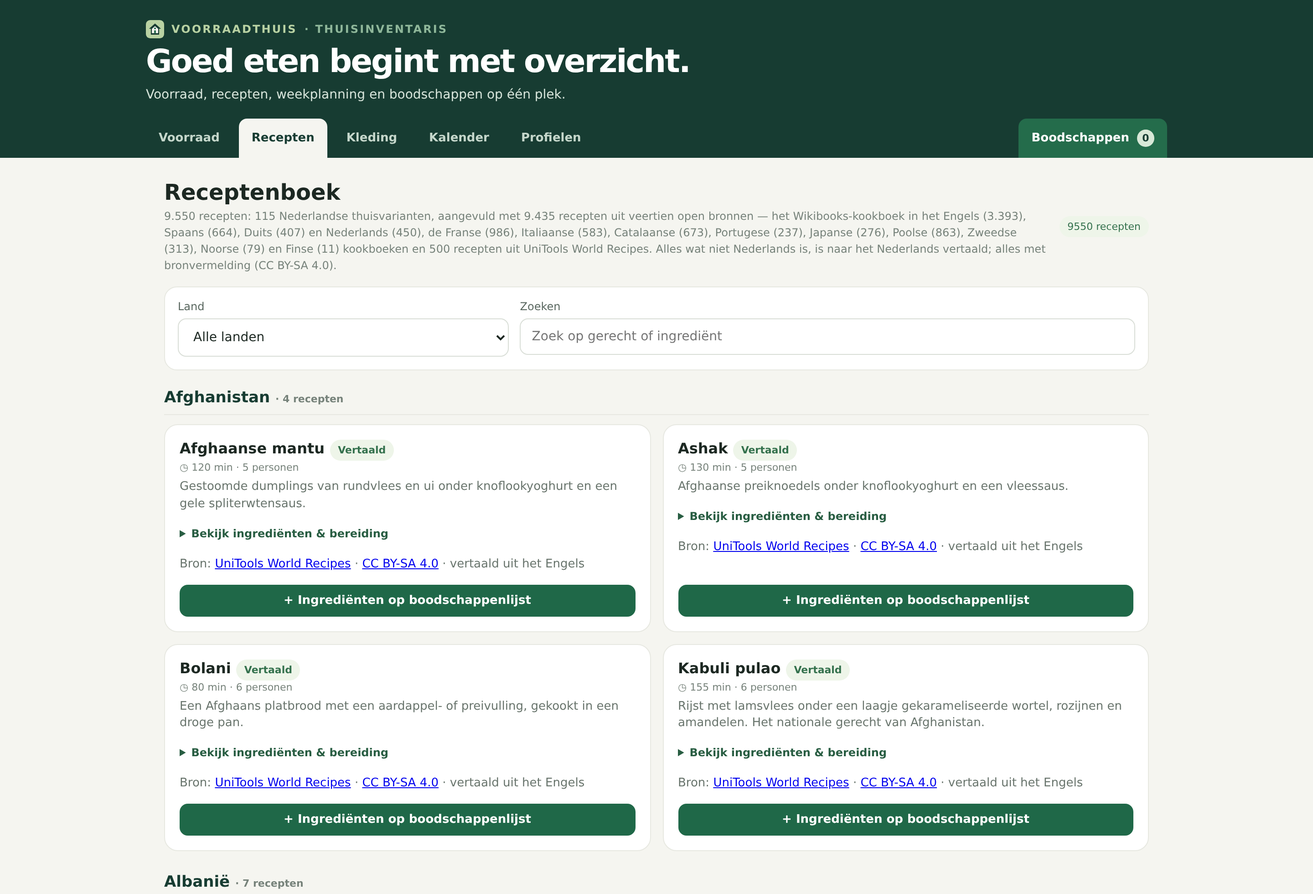
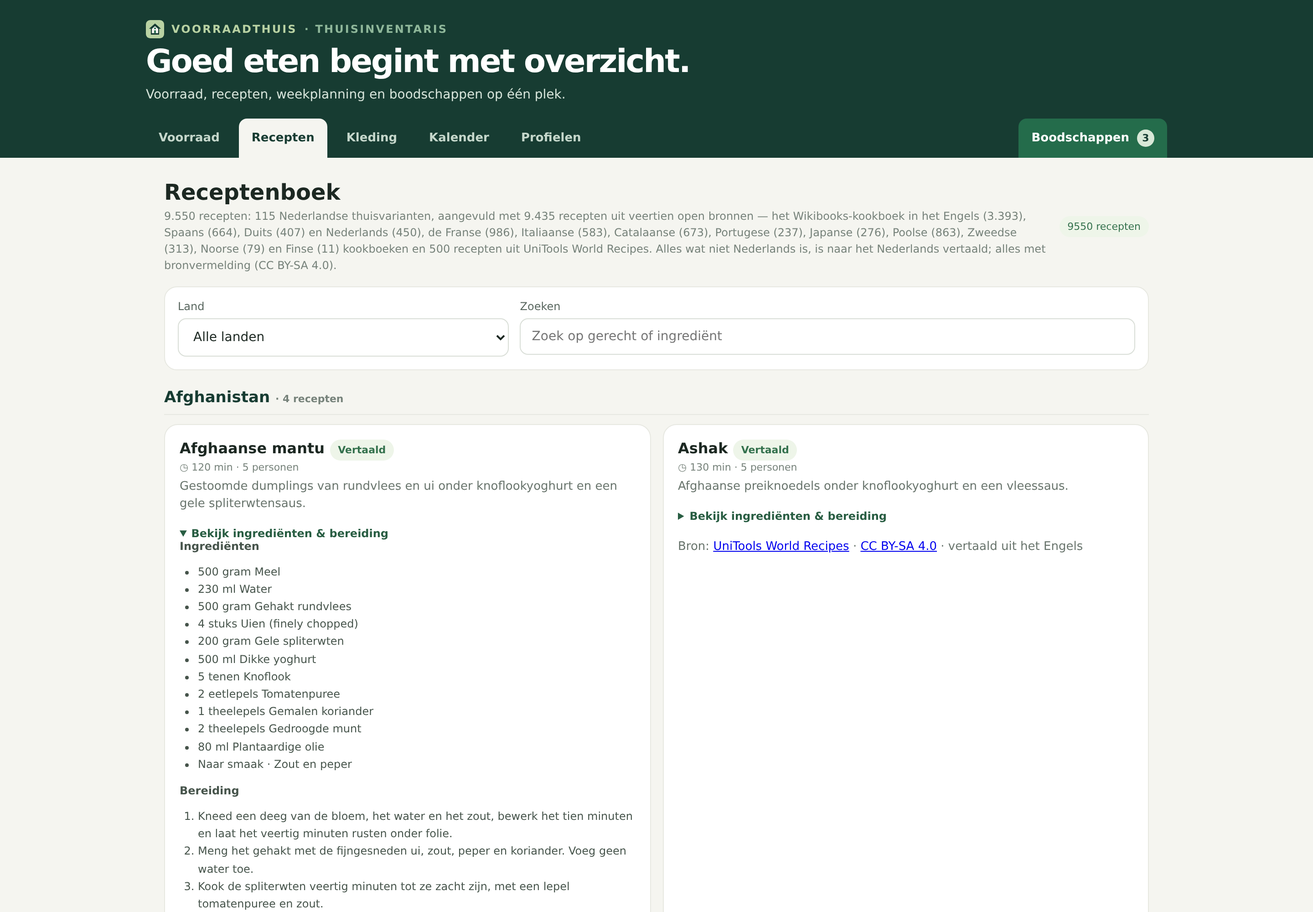
Snelheid: receptenlijst in stukjes, gecomprimeerd en met lui laden
De pagina haalde bij elke weergave alle 9.550 recepten met ingrediënten en
bereiding op: 19,4 MB aan JSON die de browser moest parsen, plus een keuzelijst
met 9.551 opties voor de dagplanning. Dat maakte de app traag, zeker op een
telefoon en op een container met één kern.

- /api/recipes?compact=1 geeft per stukje van 48 alleen wat de lijst nodig heeft
  (naam, land, tijd, porties, omschrijving, bron) met totaal-aantal; ?q= en ?land=
  zoeken en filteren op de server. Zoeken kijkt net als voorheen naar naam, land,
  omschrijving en ingrediëntnamen (zoektekst wordt lui opgebouwd en onthouden).
- /api/recipes/<id> geeft één volledig recept; de ingrediënten en bereiding worden
  pas geladen als je 'Bekijk ingrediënten & bereiding' openklapt.
- /api/recipes/landen geeft de landen met aantallen voor de filterlijst.
- JSON-antwoorden worden gecomprimeerd (gzip) boven 1 kB.
- De dagplanning kreeg een zoekveld: de keuzelijst vult zich met de 50 beste
  treffers in plaats van alle 9.550 recepten.
- Gemeten op dezelfde machine, receptenpagina: 19,44 MB -> 0,01 MB aan gegevens,
  receptenverzoek 352 ms -> 4 ms, recepten in beeld 661 ms -> 185 ms,
  keuzelijst dagplanning 9.551 -> 51 opties, JS-heap 28 MB -> 9,5 MB.
- De hele flow is in een echte browser doorlopen (zoeken, land kiezen, meer laden,
  openklappen, ingrediënten op de boodschappenlijst, recept plannen). Vier nieuwe
  tests erbij: 72 in totaal, alle groen.

diff --git a/public/index.html b/public/index.html
@@ -202,7 +202,7 @@
   <div class="panel" style="margin-top:16px"><h2>Nooit gedragen</h2><div id="neverWorn" class="list"></div></div>
 </section>
 </section>
-<section class="view" id="page-calendar" hidden><div class="panelhead"><div><h2>Maaltijd- & werkplanning</h2><div class="hint">Plan een recept, landkeuken en je werkdienst per dag.</div></div></div><div class="calendarShell"><section class="panel"><div class="monthbar"><button id="prevMonth" aria-label="Vorige maand">‹</button><h2 id="monthTitle"></h2><button id="nextMonth" aria-label="Volgende maand">›</button></div><div class="calendar" id="calendarGrid"></div></section><section class="panel"><h2>Dagplanning</h2><div class="dateLabel" id="selectedLabel"></div><form id="planForm"><label class="field" for="planRecipe">Recept van de dag</label><select id="planRecipe"><option value="">Geen recept gepland</option></select><label class="field" for="planCuisine">Landkeuken</label><input id="planCuisine" list="cuisines" placeholder="Bijv. Italië"><datalist id="cuisines"><option>Nederland</option><option>Italië</option><option>Mexico</option><option>India</option><option>Tunesië</option><option>Japan</option><option>Thailand</option><option>Frankrijk</option><option>Marokko</option><option>Griekenland</option><option>Indonesië</option><option>Turkije</option></datalist><div class="panelhead" style="margin:18px 0 3px"><h2 style="font-size:15px">Werkrooster</h2><span class="pill">24-uurs klok</span></div><p class="hint" style="margin:0 0 8px">Typ vier cijfers, bijvoorbeeld 1930 wordt 19:30.</p><div id="shiftList" class="shiftList"></div><div class="savedShiftBox"><label class="field" for="savedShiftSelect">Opgeslagen dienst toevoegen aan deze dag</label><div class="savedShiftRow"><select id="savedShiftSelect"><option value="">Kies een opgeslagen dienst</option></select><button class="btn primary" type="button" id="addSavedShift">Zet op agenda</button></div><p class="hint">Sla een ingevulde dienst op via ‘Bewaar dienst’; geselecteerde diensten worden direct aan deze dag toegevoegd.</p></div><button class="btn addShift" type="button" id="addShift">+ Dienst toevoegen</button><div class="formactions"><button class="btn primary" type="submit">Bewaar dag</button><button class="btn danger" type="button" id="clearPlan">Wis</button></div><div class="saved" id="planNotice"></div></form></section></div></section>
+<section class="view" id="page-calendar" hidden><div class="panelhead"><div><h2>Maaltijd- & werkplanning</h2><div class="hint">Plan een recept, landkeuken en je werkdienst per dag.</div></div></div><div class="calendarShell"><section class="panel"><div class="monthbar"><button id="prevMonth" aria-label="Vorige maand">‹</button><h2 id="monthTitle"></h2><button id="nextMonth" aria-label="Volgende maand">›</button></div><div class="calendar" id="calendarGrid"></div></section><section class="panel"><h2>Dagplanning</h2><div class="dateLabel" id="selectedLabel"></div><form id="planForm"><label class="field" for="planRecipeZoek">Recept zoeken</label><input id="planRecipeZoek" type="search" placeholder="Typ een gerecht of ingrediënt…" autocomplete="off"><div class="hint" id="planRecipeHint"></div><label class="field" for="planRecipe">Recept van de dag</label><select id="planRecipe"><option value="">Geen recept gepland</option></select><label class="field" for="planCuisine">Landkeuken</label><input id="planCuisine" list="cuisines" placeholder="Bijv. Italië"><datalist id="cuisines"><option>Nederland</option><option>Italië</option><option>Mexico</option><option>India</option><option>Tunesië</option><option>Japan</option><option>Thailand</option><option>Frankrijk</option><option>Marokko</option><option>Griekenland</option><option>Indonesië</option><option>Turkije</option></datalist><div class="panelhead" style="margin:18px 0 3px"><h2 style="font-size:15px">Werkrooster</h2><span class="pill">24-uurs klok</span></div><p class="hint" style="margin:0 0 8px">Typ vier cijfers, bijvoorbeeld 1930 wordt 19:30.</p><div id="shiftList" class="shiftList"></div><div class="savedShiftBox"><label class="field" for="savedShiftSelect">Opgeslagen dienst toevoegen aan deze dag</label><div class="savedShiftRow"><select id="savedShiftSelect"><option value="">Kies een opgeslagen dienst</option></select><button class="btn primary" type="button" id="addSavedShift">Zet op agenda</button></div><p class="hint">Sla een ingevulde dienst op via ‘Bewaar dienst’; geselecteerde diensten worden direct aan deze dag toegevoegd.</p></div><button class="btn addShift" type="button" id="addShift">+ Dienst toevoegen</button><div class="formactions"><button class="btn primary" type="submit">Bewaar dag</button><button class="btn danger" type="button" id="clearPlan">Wis</button></div><div class="saved" id="planNotice"></div></form></section></div></section>
 <section class="view" id="page-shopping" hidden><section class="panel"><div class="shophead"><div><h2>Boodschappenlijst</h2><div class="hint">Producten die op zijn en ingrediënten uit je gekozen recepten.</div></div><div class="smsbox"><label class="field" for="smsRecipient">Ontvanger</label><select id="smsRecipient" aria-label="Ontvanger van de boodschappenlijst"></select><button class="btn sms" id="sms">✉ Verstuur via SMS</button></div></div><form class="inlineform" id="manualShopping"><div><label class="field" for="shoppingName">Zelf iets toevoegen</label><input id="shoppingName" placeholder="Product" required maxlength="120"></div><div style="max-width:110px"><label class="field" for="shoppingQuantity">Aantal</label><input id="shoppingQuantity" type="number" step="any" min=".01" value="1"></div><div style="max-width:120px"><label class="field" for="shoppingUnit">Eenheid</label><input id="shoppingUnit" value="stuks"></div><button class="btn primary">+ Toevoegen</button></form><p class="notice" id="shoppingNotice"></p><div id="shoppingList" class="list" style="margin-top:12px"></div><p class="hint">De lijst gaat naar het telefoonnummer van het gekozen profiel. Zonder eigen sms-dienst opent de knop je berichten-app met nummer en lijst ingevuld; met een gateway of Twilio in de Profielen-tab verstuurt de app het bericht zelf.</p></section></section>
 <section class="view" id="page-profielen" hidden>
 <div class="layout">
@@ -264,22 +264,88 @@
 </div>
 </section>
 </main><script>
-const $=s=>document.querySelector(s),$$=s=>[...document.querySelectorAll(s)];function localDate(d){return `${d.getFullYear()}-${String(d.getMonth()+1).padStart(2,'0')}-${String(d.getDate()).padStart(2,'0')}`}let state={have:[],need:[],recipes:[],plans:[],shiftTemplates:[],profiles:[],smsSettings:null,stock:'have',page:'stock',selectedDate:localDate(new Date()),recipeLimit:24,month:new Date()};const esc=s=>String(s??'').replace(/[&<>"']/g,c=>({'&':'&amp;','<':'&lt;','>':'&gt;','"':'&quot;',"'":'&#39;'}[c]));async function api(url,options={}){const r=await fetch(url,{...options,headers:{'content-type':'application/json',...(options.headers||{})}});let d;try{d=await r.json()}catch{d={}}if(!r.ok)throw Error(d.error||'Er ging iets mis.');return d}const payload=(method,data)=>({method,body:JSON.stringify(data)});
-async function refresh(){[state.have,state.need,state.recipes]=await Promise.all([api('/api/products'),api('/api/shopping'),api('/api/recipes')]);$('#countRecipes').textContent=state.recipes.length;$('#recipeTotal').textContent=`${state.recipes.length} recepten`;fillRecipeFilter();renderStock();renderRecipes();renderShopping();fillRecipeSelect();[state.profiles,state.smsSettings]=await Promise.all([api('/api/profielen'),api('/api/instellingen/sms')]);fillSmsRecipients();renderProfiles();renderSmsSettings(true);renderSmsLog();if(state.page==='calendar')await loadPlans()}
-function fillRecipeFilter(){const select=$('#recipeCountry'),value=select.value,countries=[...new Set(state.recipes.map(r=>r.cuisine))].sort((a,b)=>a.localeCompare(b,'nl'));select.innerHTML='<option value="">Alle landen</option>'+countries.map(c=>`<option value="${esc(c)}">${esc(c)}</option>`).join('');if(countries.includes(value))select.value=value}
-function fillRecipeSelect(){const s=$('#planRecipe'),v=s.value;s.innerHTML='<option value="">Geen recept gepland</option>'+state.recipes.map(r=>`<option value="${r.id}">${esc(r.name)} · ${esc(r.cuisine)}</option>`).join('');if(v)s.value=v}
+const $=s=>document.querySelector(s),$$=s=>[...document.querySelectorAll(s)];function localDate(d){return `${d.getFullYear()}-${String(d.getMonth()+1).padStart(2,'0')}-${String(d.getDate()).padStart(2,'0')}`}let state={have:[],need:[],recipes:[],recipeTotaal:0,recipeQuery:'',recipeLand:'',recipeDetails:new Map(),plans:[],shiftTemplates:[],profiles:[],smsSettings:null,stock:'have',page:'stock',selectedDate:localDate(new Date()),recipeLimit:24,month:new Date()};const esc=s=>String(s??'').replace(/[&<>"']/g,c=>({'&':'&amp;','<':'&lt;','>':'&gt;','"':'&quot;',"'":'&#39;'}[c]));async function api(url,options={}){const r=await fetch(url,{...options,headers:{'content-type':'application/json',...(options.headers||{})}});let d;try{d=await r.json()}catch{d={}}if(!r.ok)throw Error(d.error||'Er ging iets mis.');return d}const payload=(method,data)=>({method,body:JSON.stringify(data)});
+async function refresh(){[state.have,state.need]=await Promise.all([api('/api/products'),api('/api/shopping')]);await laadRecepten(true);await fillRecipeFilter();renderStock();renderShopping();await fillRecipeSelect();[state.profiles,state.smsSettings]=await Promise.all([api('/api/profielen'),api('/api/instellingen/sms')]);fillSmsRecipients();renderProfiles();renderSmsSettings(true);renderSmsLog();if(state.page==='calendar')await loadPlans()}
+// Recepten komen per stukje van de server: alleen wat de lijst laat zien. Zo hoeft de
+// browser geen 9.550 recepten met ingrediënten en bereiding te verwerken.
+async function laadRecepten(opnieuw=false){
+  const aantal=Math.max(RECIPE_STEP,(opnieuw?RECIPE_STEP:state.recipes.length+RECIPE_STEP));
+  const params=new URLSearchParams({compact:'1',aantal:String(Math.min(aantal,200)),vanaf:opnieuw?'0':String(state.recipes.length)});
+  if(state.recipeQuery)params.set('q',state.recipeQuery);
+  if(state.recipeLand)params.set('land',state.recipeLand);
+  const data=await api('/api/recipes?'+params.toString());
+  state.recipeTotaal=data.totaal;
+  state.recipes=opnieuw?data.items:[...state.recipes,...data.items];
+  $('#countRecipes').textContent=data.totaal;
+  $('#recipeTotal').textContent=`${data.totaal} recepten`;
+  renderRecipes();
+}
+async function fillRecipeFilter(){
+  const select=$('#recipeCountry'),value=select.value;
+  if(!state.landen)state.landen=await api('/api/recipes/landen');
+  select.innerHTML='<option value="">Alle landen</option>'+state.landen.map(l=>`<option value="${esc(l.cuisine)}">${esc(l.cuisine)} (${l.aantal})</option>`).join('');
+  if(state.landen.some(l=>l.cuisine===value))select.value=value;
+}
+async function receptDetail(id){
+  if(!state.recipeDetails.has(id))state.recipeDetails.set(id,await api('/api/recipes/'+id));
+  return state.recipeDetails.get(id);
+}
+async function vulReceptDetail(details){
+  const body=details.querySelector('.detailBody');
+  if(!body||body.dataset.klaar==='1')return;
+  const recept=await receptDetail(Number(details.dataset.recipeDetails));
+  const ingredientText=i=>i.display||(i.unit==='naar smaak'?`Naar smaak · ${i.name}`:`${i.quantity} ${i.unit} ${i.name}${i.note?` (${i.note})`:''}`);
+  body.innerHTML=`<strong>Ingrediënten</strong><ul>${recept.ingredients.map(i=>`<li>${esc(ingredientText(i))}</li>`).join('')}</ul><strong>Bereiding</strong><ol>${recept.steps.map(x=>`<li>${esc(x)}</li>`).join('')}</ol>`;
+  body.dataset.klaar='1';
+}
+async function fillRecipeSelect(zoek=''){
+  const data=await api('/api/recipes?compact=1&aantal=50'+(zoek?`&q=${encodeURIComponent(zoek)}`:''));
+  const s=$('#planRecipe'),v=s.value;
+  s.innerHTML='<option value="">Geen recept gepland</option>'+data.items.map(r=>`<option value="${r.id}">${esc(r.name)} · ${esc(r.cuisine)}</option>`).join('');
+  if(v&&[...s.options].some(o=>o.value===v))s.value=v;
+  const hint=$('#planRecipeHint');
+  if(hint)hint.textContent=zoek?`${data.totaal} recepten gevonden.`:`${data.totaal} recepten; typ hierboven om te zoeken.`;
+}
+async function zetPlanRecept(id){
+  if(!id)return;
+  const s=$('#planRecipe');
+  if([...s.options].some(o=>o.value===String(id)))return;
+  try{
+    const recept=await receptDetail(Number(id));
+    s.insertAdjacentHTML('beforeend',`<option value="${recept.id}">${esc(recept.name)} · ${esc(recept.cuisine)}</option>`);
+  }catch{/* gepland recept bestaat niet meer */}
+}
 function showPage(name){state.page=name;$$('.view').forEach(v=>v.hidden=v.id!==`page-${name}`);$$('.nav [data-page]').forEach(b=>b.classList.toggle('active',b.dataset.page===name));if(name==='calendar')loadPlans();if(name==='kast'&&window.Kledingkast)window.Kledingkast.open()}
 function renderStock(){const h=state.have.length,n=state.need.length;$('#countHave').textContent=h;$('#countNeed').textContent=n;$('#haveTab').textContent=h;$('#needTab').textContent=n;$$('[data-stock]').forEach(b=>b.classList.toggle('active',b.dataset.stock===state.stock));const items=state.stock==='have'?state.have:state.need;$('#stockList').innerHTML=items.length?items.map(p=>`<article class="row"><div class="icon">${state.stock==='have'?'+':'↗'}</div><div class="info"><strong>${esc(p.name)}</strong><div class="muted">${esc(p.quantity)} ${esc(p.unit)}${p.barcode?' · '+esc(p.barcode):''}</div></div><div class="actions">${state.stock==='have'?`<button class="btn danger" data-consume="${p.id}">Niet meer</button>`:`<button class="btn" data-restore="${p.id}">↶ Herstel</button><button class="btn danger" data-delete="${p.id}">×</button>`}</div></article>`).join(''):`<div class="empty">${state.stock==='have'?'Je voorraad is nog leeg. Voeg hierboven een product toe.':'Niets op? Je boodschappenlijst is bijgewerkt.'}</div>`}
-const TAAL_NAAM={en:'het Engels',es:'het Spaans',de:'het Duits',ru:'het Russisch',pl:'het Pools',ja:'het Japans',id:'het Indonesisch',uk:'het Oekraïens',it:'het Italiaans',pt:'het Portugees',fr:'het Frans',nl:'het Nederlands',zh:'het Chinees',ar:'het Arabisch',cs:'het Tsjechisch',sv:'het Zweeds',fi:'het Fins',hu:'het Hongaars',tr:'het Turks',ca:'het Catalaans',hi:'het Hindi',ro:'het Roemeens',fa:'het Perzisch',hr:'het Kroatisch',be:'het Wit-Russisch',lt:'het Litouws',ms:'het Maleisisch',th:'het Thais',az:'het Azerbeidzjaans',sl:'het Sloveens',el:'het Grieks',ko:'het Koreaans',vi:'het Vietnamees',ta:'het Tamil',he:'het Hebreeuws',is:'het IJslands',nb:'het Noors',da:'het Deens',bg:'het Bulgaars',mk:'het Macedonisch',sq:'het Albanees',sr:'het Servisch',sk:'het Slowaaks',eo:'het Esperanto',hy:'het Armeens',ka:'het Georgisch',ml:'het Malayalam',si:'het Singalees',tl:'het Tagalog',bn:'het Bengaals',oc:'het Occitaans',cv:'het Tsjoevasjisch',ku:'het Koerdisch',nn:'het Noors'},TAAL_ONBEKEND='een andere taal';const RECIPE_STEP=48;function renderRecipes(){if(!state.recipes.length){$('#recipeGrid').innerHTML='<div class="empty">Recepten laden…</div>';return}const country=$('#recipeCountry').value,query=$('#recipeSearch').value.trim().toLocaleLowerCase('nl'),matches=state.recipes.filter(r=>(!country||r.cuisine===country)&&(!query||[r.name,r.cuisine,r.description,...r.ingredients.map(i=>i.name)].join(' ').toLocaleLowerCase('nl').includes(query)));if(!matches.length){$('#recipeGrid').innerHTML='<div class="empty">Geen recepten gevonden. Probeer een andere zoekopdracht.</div>';return}const groups=new Map();for(const recipe of matches){if(!groups.has(recipe.cuisine))groups.set(recipe.cuisine,[]);groups.get(recipe.cuisine).push(recipe)}const ingredientText=i=>i.display||(i.unit==='naar smaak'?`Naar smaak · ${i.name}`:`${i.quantity} ${i.unit} ${i.name}${i.note?` (${i.note})`:''}`);let budget=state.recipeLimit,rendered=0;const sections=[];for(const [cuisine,recipes] of groups){if(budget<=0)break;const take=recipes.slice(0,budget);budget-=take.length;rendered+=take.length;sections.push(`<section class="recipeCountry"><h3 class="countryHeading">${esc(cuisine)} <span class="muted">· ${recipes.length} recepten</span></h3><div class="cards">${take.map(r=>`<article class="recipe"><div class="recipeTop"><div><h3>${esc(r.name)} ${r.translatedFrom?'<span class="pill">Vertaald</span>':''}</h3><div class="muted">◷ ${r.time==null?'Tijd niet vermeld':`${r.time} min`} · ${r.servings==null?'porties niet vermeld':`${r.servings} personen`}</div></div></div><p>${esc(r.description)}</p><details><summary>Bekijk ingrediënten & bereiding</summary><strong>Ingrediënten</strong><ul>${r.ingredients.map(i=>`<li>${esc(ingredientText(i))}</li>`).join('')}</ul><strong>Bereiding</strong><ol>${r.steps.map(x=>`<li>${esc(x)}</li>`).join('')}</ol></details>${r.source?`<p class="hint">Bron: <a href="${esc(r.source.url)}" target="_blank" rel="noopener noreferrer">${esc(r.source.name)}</a> · <a href="${esc(r.source.licenseUrl)}" target="_blank" rel="noopener noreferrer">${esc(r.source.license)}</a>${r.translatedFrom?' · vertaald uit '+TAAL_NAAM[r.translatedFrom]:''}</p>`:''}<button class="btn primary" data-recipe="${r.id}">+ Ingrediënten op boodschappenlijst</button></article>`).join('')}</div></section>`)}const remaining=matches.length-rendered;$('#recipeGrid').innerHTML=sections.join('')+(remaining>0?`<div class="moreBox"><button class="btn primary" id="recipeMore">Nog ${remaining} recepten laden</button><div class="hint">Je ziet ${rendered} van ${matches.length} recepten.</div></div>`:'');const more=$('#recipeMore');if(more)more.onclick=()=>{state.recipeLimit+=RECIPE_STEP;renderRecipes()}}
+const TAAL_NAAM={en:'het Engels',es:'het Spaans',de:'het Duits',ru:'het Russisch',pl:'het Pools',ja:'het Japans',id:'het Indonesisch',uk:'het Oekraïens',it:'het Italiaans',pt:'het Portugees',fr:'het Frans',nl:'het Nederlands',zh:'het Chinees',ar:'het Arabisch',cs:'het Tsjechisch',sv:'het Zweeds',fi:'het Fins',hu:'het Hongaars',tr:'het Turks',ca:'het Catalaans',hi:'het Hindi',ro:'het Roemeens',fa:'het Perzisch',hr:'het Kroatisch',be:'het Wit-Russisch',lt:'het Litouws',ms:'het Maleisisch',th:'het Thais',az:'het Azerbeidzjaans',sl:'het Sloveens',el:'het Grieks',ko:'het Koreaans',vi:'het Vietnamees',ta:'het Tamil',he:'het Hebreeuws',is:'het IJslands',nb:'het Noors',da:'het Deens',bg:'het Bulgaars',mk:'het Macedonisch',sq:'het Albanees',sr:'het Servisch',sk:'het Slowaaks',eo:'het Esperanto',hy:'het Armeens',ka:'het Georgisch',ml:'het Malayalam',si:'het Singalees',tl:'het Tagalog',bn:'het Bengaals',oc:'het Occitaans',cv:'het Tsjoevasjisch',ku:'het Koerdisch',nn:'het Noors'},TAAL_ONBEKEND='een andere taal';const RECIPE_STEP=48;
+// De lijst komt kant-en-klaar van de server (per land, per zoekvraag en in stukjes van
+// 48). Ingrediënten en bereiding worden pas opgehaald als je ze openklapt.
+function renderRecipes(){
+  if(!state.recipes.length){$('#recipeGrid').innerHTML='<div class="empty">Geen recepten gevonden. Probeer een andere zoekopdracht of kies een ander land.</div>';return}
+  const groups=new Map();
+  for(const recipe of state.recipes){if(!groups.has(recipe.cuisine))groups.set(recipe.cuisine,[]);groups.get(recipe.cuisine).push(recipe)}
+  const sections=[];
+  for(const [cuisine,recipes] of groups){
+    sections.push(`<section class="recipeCountry"><h3 class="countryHeading">${esc(cuisine)} <span class="muted">· ${recipes.length} recepten</span></h3><div class="cards">${recipes.map(r=>`<article class="recipe"><div class="recipeTop"><div><h3>${esc(r.name)} ${r.translatedFrom?'<span class="pill">Vertaald</span>':''}</h3><div class="muted">◷ ${r.time==null?'Tijd niet vermeld':`${r.time} min`} · ${r.servings==null?'porties niet vermeld':`${r.servings} personen`}</div></div></div><p>${esc(r.description||'')}</p><details data-recipe-details="${r.id}"><summary>Bekijk ingrediënten & bereiding</summary><div class="detailBody"><div class="hint">Bezig met laden…</div></div></details>${r.sourceName?`<p class="hint">Bron: <a href="${esc(r.sourceUrl)}" target="_blank" rel="noopener noreferrer">${esc(r.sourceName)}</a> · <a href="${esc(r.sourceLicenseUrl)}" target="_blank" rel="noopener noreferrer">${esc(r.sourceLicense)}</a>${r.translatedFrom?' · vertaald uit '+TAAL_NAAM[r.translatedFrom]:''}</p>`:''}<button class="btn primary" data-recipe="${r.id}">+ Ingrediënten op boodschappenlijst</button></article>`).join('')}</div></section>`);
+  }
+  const geladen=state.recipes.length,rest=state.recipeTotaal-geladen;
+  $('#recipeGrid').innerHTML=sections.join('')+(rest>0?`<div class="moreBox"><button class="btn primary" id="recipeMore">Nog ${Math.min(rest,RECIPE_STEP)} recepten laden</button><div class="hint">Je ziet ${geladen} van ${state.recipeTotaal} recepten.</div></div>`:`<div class="hint">Alle ${state.recipeTotaal} recepten in beeld.</div>`);
+  const more=$('#recipeMore');
+  if(more)more.onclick=async()=>{more.disabled=true;more.textContent='Laden…';await laadRecepten(false)};
+}
 function renderShopping(){const items=state.need;$('#navCount').textContent=items.length;$('#shoppingList').innerHTML=items.length?items.map(p=>`<article class="row"><div class="icon">🛒</div><div class="info"><strong>${esc(p.name)}</strong><div class="muted">${p.unit==='niet vermeld'?'Hoeveelheid niet vermeld':p.unit==='bronregel'?'Hoeveelheid staat in de receptregel':`${esc(p.quantity)} ${esc(p.unit)}`}${p.product_id?' · op uit voorraad':''}</div></div><button class="btn danger" data-shopdelete="${p.id}" aria-label="Verwijderen">×</button></article>`).join(''):'<div class="empty">Je lijst is nog leeg. Markeer voorraad als op of voeg ingrediënten toe vanuit een recept.</div>';$('#sms').disabled=!items.length;$('#sms').style.opacity=items.length?'1':'.55'}
 async function loadShiftTemplates(){state.shiftTemplates=await api('/api/shift-templates');$('#savedShiftSelect').innerHTML='<option value="">Kies een opgeslagen dienst</option>'+state.shiftTemplates.map(s=>`<option value="${s.id}">${esc(s.name)} · ${esc(s.startTime)}–${esc(s.endTime)}</option>`).join('')}
 async function loadPlans(keepMessage=false){const month=`${state.month.getFullYear()}-${String(state.month.getMonth()+1).padStart(2,'0')}`;[state.plans]=await Promise.all([api('/api/planner?month='+month),loadShiftTemplates()]);renderCalendar();loadDayForm(keepMessage)}
 function renderCalendar(){const y=state.month.getFullYear(),m=state.month.getMonth();$('#monthTitle').textContent=new Intl.DateTimeFormat('nl-NL',{month:'long',year:'numeric'}).format(state.month);const grid=$('#calendarGrid'),days=['Ma','Di','Wo','Do','Vr','Za','Zo'];grid.innerHTML=days.map(d=>`<div class="dow">${d}</div>`).join('');const first=new Date(y,m,1),offset=(first.getDay()+6)%7,start=new Date(y,m,1-offset),today=localDate(new Date());for(let i=0;i<42;i++){const d=new Date(start);d.setDate(start.getDate()+i);const iso=localDate(d),p=state.plans.find(x=>x.plan_date===iso),r=state.recipes.find(x=>x.id===p?.recipe_id),b=document.createElement('button');b.type='button';b.className=`day ${d.getMonth()!==m?'outside':''} ${iso===state.selectedDate?'selected':''} ${iso===today?'today':''}`;b.dataset.date=iso;b.innerHTML=`<span class="num">${d.getDate()}</span>${r?`<span class="eventline">${esc(r.name)}</span>`:''}${p?.cuisine?`<span class="eventline">${esc(p.cuisine)}</span>`:''}${p?.shifts?.length?`<span class="eventline workline">${esc(p.shifts[0].name)} · ${esc(p.shifts[0].startTime)}–${esc(p.shifts[0].endTime)}${p.shifts.length>1?` +${p.shifts.length-1}`:''}</span>`:''}`;grid.append(b)}}
 function renderShiftList(shifts){$('#shiftList').innerHTML=shifts.length?shifts.map((s,i)=>`<article class="shiftCard" data-shift-card="${i}"><div class="shiftHeading"><span>Dienst ${i+1}</span><div class="shiftActions"><button class="btn" type="button" data-save-shift="${i}">Bewaar dienst</button><button class="btn" type="button" data-remove-shift="${i}">Verwijderen</button></div></div><div class="shiftFields"><div><label class="field" for="shiftName-${i}">Naam van dienst</label><input id="shiftName-${i}" data-shift-field="name" value="${esc(s.name)}" maxlength="80" placeholder="Bijv. Ochtenddienst" required></div><div><label class="field" for="shiftNotes-${i}">Notitie (optioneel)</label><input id="shiftNotes-${i}" data-shift-field="notes" value="${esc(s.notes)}" maxlength="200" placeholder="Bijv. kassa"></div><div><label class="field" for="shiftStart-${i}">Begintijd · 24 uur</label><input id="shiftStart-${i}" class="time24" data-shift-field="startTime" value="${esc(s.startTime)}" maxlength="5" inputmode="numeric" autocomplete="off" placeholder="08:30" required></div><div><label class="field" for="shiftEnd-${i}">Eindtijd · 24 uur</label><input id="shiftEnd-${i}" class="time24" data-shift-field="endTime" value="${esc(s.endTime)}" maxlength="5" inputmode="numeric" autocomplete="off" placeholder="16:30" required></div></div></article>`).join(''):'<div class="shiftEmpty">Nog geen diensten voor deze dag.</div>'}
 function readShiftForm(){return $$('#shiftList [data-shift-card]').map(card=>Object.fromEntries([...card.querySelectorAll('[data-shift-field]')].map(input=>[input.dataset.shiftField,input.value.trim()]))) }
-function loadDayForm(keepMessage=false){const date=state.selectedDate,p=state.plans.find(x=>x.plan_date===date);$('#selectedLabel').textContent=new Intl.DateTimeFormat('nl-NL',{weekday:'long',day:'numeric',month:'long',year:'numeric'}).format(new Date(date+'T12:00:00'));$('#planRecipe').value=p?.recipe_id??'';$('#planCuisine').value=p?.cuisine||'';const shifts=p?.shifts||((p?.work_start&&p?.work_end)?[{name:p.work_notes||'Dienst',startTime:p.work_start,endTime:p.work_end,notes:''}]:[]);renderShiftList(shifts);if(!keepMessage)$('#planNotice').textContent=p?'Planning geladen.':''}
+async function loadDayForm(keepMessage=false){const date=state.selectedDate,p=state.plans.find(x=>x.plan_date===date);$('#selectedLabel').textContent=new Intl.DateTimeFormat('nl-NL',{weekday:'long',day:'numeric',month:'long',year:'numeric'}).format(new Date(date+'T12:00:00'));$('#planRecipe').value=p?.recipe_id??'';if(p?.recipe_id)await zetPlanRecept(p.recipe_id);$('#planCuisine').value=p?.cuisine||'';const shifts=p?.shifts||((p?.work_start&&p?.work_end)?[{name:p.work_notes||'Dienst',startTime:p.work_start,endTime:p.work_end,notes:''}]:[]);renderShiftList(shifts);if(!keepMessage)$('#planNotice').textContent=p?'Planning geladen.':''}
 async function savePlan(message='Dagplanning opgeslagen.'){await api('/api/planner/'+state.selectedDate,payload('PUT',{recipeId:$('#planRecipe').value||null,cuisine:$('#planCuisine').value,shifts:readShiftForm()}));$('#planNotice').textContent=message;await loadPlans(true)}
-$$('.nav [data-page]').forEach(b=>b.onclick=()=>showPage(b.dataset.page));$('#recipeCountry').addEventListener('change',()=>{state.recipeLimit=24;renderRecipes()});$('#recipeSearch').addEventListener('input',()=>{state.recipeLimit=24;renderRecipes()});$$('[data-stock]').forEach(b=>b.onclick=()=>{state.stock=b.dataset.stock;renderStock()});$('#addForm').addEventListener('submit',async e=>{e.preventDefault();try{await api('/api/products',payload('POST',{name:$('#name').value,barcode:$('#barcode').value,quantity:$('#quantity').value,unit:$('#unit').value}));e.target.reset();$('#quantity').value=1;$('#unit').value='stuks';barcodeLaatst='';$('#barcodeResult').hidden=true;$('#barcodeResult').innerHTML='';$('#stockNotice').textContent='Product toegevoegd aan je voorraad.';await refresh()}catch(err){$('#stockNotice').textContent=err.message}});
+$$('.nav [data-page]').forEach(b=>b.onclick=()=>showPage(b.dataset.page));$('#recipeCountry').addEventListener('change',async()=>{state.recipeLand=$('#recipeCountry').value;await laadRecepten(true)});
+let receptZoekTimer;const receptZoeken=()=>{clearTimeout(receptZoekTimer);receptZoekTimer=setTimeout(async()=>{state.recipeQuery=$('#recipeSearch').value.trim().toLocaleLowerCase('nl');await laadRecepten(true)},250)};
+$('#recipeSearch').addEventListener('input',receptZoeken);
+$('#recipeGrid').addEventListener('toggle',async event=>{const details=event.target.closest('details[data-recipe-details]');if(!details||!details.open)return;try{await vulReceptDetail(details)}catch(fout){const body=details.querySelector('.detailBody');if(body)body.innerHTML=`<div class="hint">${esc(fout.message)}</div>`}},true);
+const planZoek=$('#planRecipeZoek');if(planZoek){let planTimer;planZoek.addEventListener('input',()=>{clearTimeout(planTimer);planTimer=setTimeout(()=>fillRecipeSelect(planZoek.value.trim().toLocaleLowerCase('nl')),250)})}$$('[data-stock]').forEach(b=>b.onclick=()=>{state.stock=b.dataset.stock;renderStock()});$('#addForm').addEventListener('submit',async e=>{e.preventDefault();try{await api('/api/products',payload('POST',{name:$('#name').value,barcode:$('#barcode').value,quantity:$('#quantity').value,unit:$('#unit').value}));e.target.reset();$('#quantity').value=1;$('#unit').value='stuks';barcodeLaatst='';$('#barcodeResult').hidden=true;$('#barcodeResult').innerHTML='';$('#stockNotice').textContent='Product toegevoegd aan je voorraad.';await refresh()}catch(err){$('#stockNotice').textContent=err.message}});
 $('#stockList').addEventListener('click',async e=>{const b=e.target.closest('button');if(!b)return;try{if(b.dataset.consume)await api('/api/products/'+b.dataset.consume,payload('PATCH',{action:'consume'}));if(b.dataset.restore)await api('/api/products/'+b.dataset.restore,payload('PATCH',{action:'restore'}));if(b.dataset.delete)await api('/api/shopping/'+b.dataset.delete,{method:'DELETE'});await refresh()}catch(err){$('#stockNotice').textContent=err.message}});
 $('#recipeGrid').addEventListener('click',async e=>{const b=e.target.closest('[data-recipe]');if(!b)return;try{const x=await api('/api/shopping/recipes/'+b.dataset.recipe,{method:'POST'});$('#recipeNotice').textContent=`${x.added} ingrediënten toegevoegd aan je boodschappenlijst.`;await refresh()}catch(err){$('#recipeNotice').textContent=err.message}});
 $('#manualShopping').addEventListener('submit',async e=>{e.preventDefault();try{await api('/api/shopping',payload('POST',{name:$('#shoppingName').value,quantity:$('#shoppingQuantity').value,unit:$('#shoppingUnit').value}));e.target.reset();$('#shoppingQuantity').value=1;$('#shoppingUnit').value='stuks';$('#shoppingNotice').textContent='Toegevoegd.';await refresh()}catch(err){$('#shoppingNotice').textContent=err.message}});$('#shoppingList').addEventListener('click',async e=>{const b=e.target.closest('[data-shopdelete]');if(b){await api('/api/shopping/'+b.dataset.shopdelete,{method:'DELETE'});await refresh()}});$('#sms').onclick=()=>verstuurBoodschappenSms();

diff --git a/server.js b/server.js
@@ -1,6 +1,7 @@
 const http = require('node:http');
 const fs = require('node:fs');
 const path = require('node:path');
+const zlib = require('node:zlib');
 const sqlite3 = require('node:sqlite');
 const internationalRecipes = require('./recipes-international');
 const createOpenRecipes = require('./recipes-open');
@@ -28,7 +29,28 @@ const CURATED_RECIPES = [...BUILTIN_RECIPES, ...internationalRecipes];
 const openRecipes = createOpenRecipes(CURATED_RECIPES);
 const RECIPES = [...CURATED_RECIPES, ...openRecipes].sort((a,b)=>a.cuisine.localeCompare(b.cuisine,'nl')||a.name.localeCompare(b.name,'nl'));
 const recipeById = id => RECIPES.find(r=>r.id===Number(id));
-function json(res,status,data){res.writeHead(status,{'content-type':'application/json; charset=utf-8','cache-control':'no-store'});res.end(JSON.stringify(data));}
+// Zoeken gebeurt op naam, land, omschrijving en ingrediëntnamen. De zoektekst wordt
+// pas gemaakt als er echt gezocht wordt en daarna onthouden, zodat het opstarten en
+// het gewone bladeren niets extra kosten.
+const zoekTekstCache = new Map();
+function zoekTekst(recept){
+  let tekst = zoekTekstCache.get(recept.id);
+  if(!tekst){
+    tekst = [recept.name, recept.cuisine, recept.description||'', ...recept.ingredients.map(i=>i.name)].join(' ').toLowerCase();
+    zoekTekstCache.set(recept.id, tekst);
+  }
+  return tekst;
+}
+const compactRecept = r => ({id:r.id,name:r.name,cuisine:r.cuisine,description:r.description||'',time:r.time??null,servings:r.servings??null,translatedFrom:r.translatedFrom||null,sourceName:r.source?r.source.name:null,sourceUrl:r.source?r.source.url:null,sourceLicense:r.source?r.source.license:null,sourceLicenseUrl:r.source?r.source.licenseUrl:null});
+// Antwoorden worden gecomprimeerd zodra de browser dat aankan: de receptenlijst is
+// groot en zonder compressie gaat er tien keer zoveel over de lijn.
+function json(res,status,data){
+  const tekst=JSON.stringify(data);
+  const koppen={'content-type':'application/json; charset=utf-8','cache-control':'no-store'};
+  const accepteert=res.req&&/\bgzip\b/.test(String(res.req.headers['accept-encoding']||''));
+  if(accepteert&&tekst.length>1024){koppen['content-encoding']='gzip';koppen['vary']='accept-encoding';res.writeHead(status,koppen);return res.end(zlib.gzipSync(tekst));}
+  res.writeHead(status,koppen);res.end(tekst);
+}
 function body(req){return new Promise((resolve,reject)=>{let s='';req.on('data',c=>{s+=c;if(s.length>100000)reject(Error('payload too large'));});req.on('end',()=>{try{resolve(JSON.parse(s||'{}'));}catch{reject(Error('invalid JSON'));}});});}
 function products(){return db.prepare('SELECT * FROM products ORDER BY name COLLATE NOCASE').all();}
 function shopping(){return db.prepare('SELECT * FROM shopping ORDER BY name COLLATE NOCASE').all();}
@@ -62,7 +84,20 @@ const server=http.createServer(async(req,res)=>{let url;try{url=new URL((req.url
  const barcodeMatch=url.pathname.match(/^\/api\/barcode\/([0-9A-Za-z]{4,20})$/);if(barcodeMatch&&req.method==='GET'){const uitkomst=await barcodes.lookup(barcodeMatch[1],{force:url.searchParams.get('force')==='1'});return json(res,200,uitkomst);}
  if(url.pathname==='/api/barcode'&&req.method==='GET'){const code=url.searchParams.get('code')||'';return json(res,200,await barcodes.lookup(code,{force:url.searchParams.get('force')==='1'}));}
  if(url.pathname==='/api/shopping'&&req.method==='GET')return json(res,200,shopping());
- if(url.pathname==='/api/recipes'&&req.method==='GET'){const country=(url.searchParams.get('country')||'').trim();return json(res,200,country?RECIPES.filter(r=>r.cuisine===country):RECIPES);}
+ if(url.pathname==='/api/recipes/landen'&&req.method==='GET'){const telling=new Map();for(const r of RECIPES)telling.set(r.cuisine,(telling.get(r.cuisine)||0)+1);return json(res,200,[...telling].map(([cuisine,aantal])=>({cuisine,aantal})).sort((a,b)=>a.cuisine.localeCompare(b.cuisine,'nl')));}
+ if(url.pathname==='/api/recipes'&&req.method==='GET'){
+  const country=(url.searchParams.get('country')||url.searchParams.get('land')||'').trim();
+  // compact=1 geeft alleen wat de lijst nodig heeft (naam, land, tijd, porties, bron);
+  // de ingrediënten en bereiding komen per recept apart opgehaald.
+  if(url.searchParams.get('compact')!=='1')return json(res,200,country?RECIPES.filter(r=>r.cuisine===country):RECIPES);
+  const q=(url.searchParams.get('q')||'').trim().toLowerCase();
+  const vanaf=Math.max(0,Math.trunc(Number(url.searchParams.get('vanaf')||0))||0);
+  const aantal=Math.min(200,Math.max(1,Math.trunc(Number(url.searchParams.get('aantal')||48))||48));
+  let lijst=country?RECIPES.filter(r=>r.cuisine===country):RECIPES;
+  if(q)lijst=lijst.filter(r=>zoekTekst(r).includes(q));
+  return json(res,200,{totaal:lijst.length,vanaf,aantal,items:lijst.slice(vanaf,vanaf+aantal).map(compactRecept)});
+ }
+ const receptMatch=url.pathname.match(/^\/api\/recipes\/(\d+)$/);if(receptMatch&&req.method==='GET'){const recept=recipeById(receptMatch[1]);if(!recept)return json(res,404,{error:'Recept niet gevonden.'});return json(res,200,recept);}
  if(url.pathname==='/api/shift-templates'&&req.method==='GET')return json(res,200,shiftTemplates());
  if(url.pathname==='/api/shift-templates'&&req.method==='POST'){const x=await body(req),name=String(x.name||'').trim(),startTime=String(x.startTime||''),endTime=String(x.endTime||''),notes=String(x.notes||'').trim();if(!name||name.length>80||!validTime(startTime)||!validTime(endTime)||notes.length>200)return json(res,400,{error:'Vul een naam en geldige tijden in 24-uursnotatie (00:00–23:59) in.'});const result=db.prepare('INSERT INTO shift_templates(name,start_time,end_time,notes) VALUES(?,?,?,?)').run(name,startTime,endTime,notes);return json(res,201,db.prepare('SELECT id,name,start_time AS startTime,end_time AS endTime,notes FROM shift_templates WHERE id=?').get(Number(result.lastInsertRowid)));}
  const templateMatch=url.pathname.match(/^\/api\/shift-templates\/(\d+)$/);if(templateMatch&&req.method==='DELETE'){const result=db.prepare('DELETE FROM shift_templates WHERE id=?').run(Number(templateMatch[1]));if(!result.changes)return json(res,404,{error:'Opgeslagen dienst niet gevonden.'});return json(res,200,{ok:true});}

diff --git a/test/app.test.js b/test/app.test.js
@@ -163,3 +163,8 @@ test('kledingstukken horen bij een kast en je kunt er kasten bij maken',async()=
 test('een kast kan een andere naam krijgen en dubbele namen worden geweigerd',async()=>{const nieuw=await(await call('/api/kast/wardrobes','POST',{name:'Papa'})).json();let r=await call(`/api/kast/wardrobes/${nieuw.id}`,'PATCH',{name:'Papa thuis'});assert.equal(r.status,200);assert.equal((await r.json()).name,'Papa thuis');r=await call('/api/kast/wardrobes','POST',{name:'Papa THUIS'});assert.equal(r.status,400,'een naam die alleen in hoofdletters verschilt hoort geweigerd te worden');r=await call(`/api/kast/wardrobes/${nieuw.id}`,'PATCH',{name:'Thuis'});assert.equal(r.status,400);assert.equal((await call(`/api/kast/wardrobes/${nieuw.id}`,'DELETE')).status,200);});
 test('een kast met kleding erin wordt alleen verwijderd als je de stuks verplaatst',async()=>{const mama=await(await call('/api/kast/wardrobes','POST',{name:'Mama 2'})).json();const item=await(await call('/api/kast/items','POST',{name:'Jas van mama',category:'jas',wardrobeId:mama.id})).json();let r=await call(`/api/kast/wardrobes/${mama.id}`,'DELETE');assert.equal(r.status,409);const fout=await r.json();assert.match(fout.error,/Verplaats/);const laatste=await(await call('/api/kast/wardrobes')).json();assert.equal(laatste.length,2,'de kast mag nog niet weg zijn');const thuis=laatste.find(k=>k.name==='Thuis');r=await call(`/api/kast/wardrobes/${mama.id}?moveTo=${thuis.id}`,'DELETE');assert.equal(r.status,200);assert.equal((await r.json()).movedTo,thuis.id);const verplaatst=await(await call(`/api/kast/items/${item.id}`)).json();assert.equal(verplaatst.wardrobeName,'Thuis');assert.equal((await(await call('/api/kast/wardrobes')).json()).length,1);const enige=await(await call('/api/kast/wardrobes')).json();assert.equal((await call(`/api/kast/wardrobes/${enige[0].id}`,'DELETE')).status,400,'de laatste kast mag niet weg');await call(`/api/kast/items/${item.id}`,'DELETE');});
 test('een onbekende kast wordt geweigerd',async()=>{for(const [url,method,data] of [['/api/kast/items','POST',{name:'Test',category:'trui',wardrobeId:999}],['/api/kast/items?wardrobe=999','GET',null],['/api/kast/wardrobes/999','PATCH',{name:'X'}],['/api/kast/wardrobes/999','DELETE',null]]){const r=await call(url,method,data||undefined);assert.ok([400,404].includes(r.status),`${method} ${url} gaf ${r.status}`)}});
+
+test('de compacte receptenlijst stuurt alleen wat de lijst nodig heeft',async()=>{const r=await call('/api/recipes?compact=1&aantal=5');assert.equal(r.status,200);const d=await r.json();assert.equal(d.totaal,9550);assert.equal(d.items.length,5);const eerste=d.items[0];assert.deepEqual(Object.keys(eerste).sort(),['cuisine','description','id','name','servings','sourceLicense','sourceLicenseUrl','sourceName','sourceUrl','time','translatedFrom'].sort());assert.equal(eerste.ingredients,undefined,'de compacte lijst hoort geen ingrediënten mee te sturen');assert.ok(eerste.sourceName,'de bron hoort er wel bij te staan');const alles=await(await call('/api/recipes')).json();assert.equal(alles.length,9550,'zonder compact=1 blijft de volledige lijst bestaan');assert.ok(alles[0].ingredients.length>0);});
+test('de compacte lijst laat bladeren en zoeken aan de server',async()=>{const een=await(await call('/api/recipes?compact=1&aantal=10&vanaf=0')).json();const twee=await(await call('/api/recipes?compact=1&aantal=10&vanaf=10')).json();assert.equal(een.items.length,10);assert.equal(twee.items.length,10);assert.equal(new Set([...een.items,...twee.items].map(r=>r.id)).size,20,'pagina\'s mogen niet overlappen');const zoek=await(await call('/api/recipes?compact=1&q=pesto')).json();assert.ok(zoek.totaal>0&&zoek.totaal<100,`pesto hoort een kleine selectie te geven, kreeg ${zoek.totaal}`);assert.ok(zoek.items.some(r=>r.name.toLowerCase().includes('pesto')));const land=await(await call('/api/recipes?compact=1&land=Itali%C3%AB&aantal=200')).json();assert.equal(land.totaal,land.items.length);assert.ok(land.items.every(r=>r.cuisine==='Italië'));});
+test('de landenlijst met aantallen en een los recept komen er apart uit',async()=>{const landen=await(await call('/api/recipes/landen')).json();assert.ok(landen.length>=100);assert.equal(landen.reduce((som,l)=>som+l.aantal,0),9550);assert.deepEqual([...landen].sort((a,b)=>a.cuisine.localeCompare(b.cuisine,'nl')),landen);const it=landen.find(l=>l.cuisine==='Italië');assert.ok(it.aantal>0);const recept=await(await call(`/api/recipes/${(await(await call('/api/recipes?compact=1&aantal=1')).json()).items[0].id}`)).json();assert.ok(recept.ingredients.length>0&&recept.steps.length>0);assert.equal((await call('/api/recipes/999999')).status,404);});
+test('grote antwoorden gaan gecomprimeerd over de lijn',async()=>{const geperst=await fetch(base+'/api/recipes',{headers:{'accept-encoding':'gzip'}});assert.equal(geperst.headers.get('content-encoding'),'gzip');const body=await geperst.text();assert.ok(body.length>1000000,'het antwoord hoort nog steeds de hele lijst te zijn');const ruw=await fetch(base+'/api/recipes',{headers:{'accept-encoding':'identity'}});assert.equal(ruw.headers.get('content-encoding'),null,'wie geen compressie wil krijgt het antwoord onverpakt');assert.equal((await ruw.text()).length,body.length);const klein=await fetch(base+'/api/recipes?compact=1&aantal=3',{headers:{'accept-encoding':'identity'}});assert.equal(klein.headers.get('content-encoding'),null,'kleine antwoorden hoeven niet geperst te worden');});

diff --git a/README.md b/README.md
@@ -70,6 +70,7 @@ Open de app op je telefoon en kies **Toevoegen aan startscherm** (iOS/Safari) of
 
 - **9.550 recepten**: 115 Nederlandstalige, zelfgeschreven thuisvarianten uit 55 landen, aangevuld met **9.435 recepten uit veertien open bronnen** — het Wikibooks-kookboek in het Engels (3.393), Spaans (664), Duits (407), Nederlands (450), Frans (986), Italiaans (583), Catalaans (673), Portugees (237), Japans (276), Pools (863), Zweeds (313), Noors (79) en Fins (11), plus 500 recepten uit UniTools World Recipes. De 450 Nederlandse kookboekrecepten zijn al Nederlands en hebben dus geen vertaling nodig. De collectie is per land gegroepeerd waar de bron dat aangeeft; overige gerechten staan onder **Internationaal**. Je kunt filteren op land en zoeken op gerecht of ingrediënt; ingrediënten gaan rechtstreeks naar de boodschappenlijst.
 - Alle 8.985 buitenlandse geïmporteerde recepten zijn naar het Nederlands vertaald: naam, omschrijving, ingrediënten en bereidingsstappen. Hoeveelheden, eenheden, bereidingstijden en porties blijven exact zoals de bron ze geeft, en id, bron-URL en licentie blijven ongewijzigd — een recept in de app verwijst dus nog steeds naar zijn origineel. Zulke recepten dragen het label **Vertaald** en bij de bronvermelding staat uit welke taal ze komen (Engels, Spaans, Duits, Frans, Italiaans, Catalaans, Portugees, Japans, Pools, Zweeds, Noors of Fins). De 450 recepten uit het Nederlandse Wikibooks-kookboek zijn van zichzelf al Nederlands en houden dus geen vertaallabel. De app weigert te starten zolang één vertaling ontbreekt.
+- **Snel, ook met 9.550 recepten**: de lijst komt in stukjes van 48 van de server (gecomprimeerd), zoeken en filteren gebeurt op de server, en ingrediënten en bereiding worden pas opgehaald als je een recept openklapt. Zonder die aanpak stuurde elke paginaweergave bijna 20 MB aan receptgegevens naar de browser.
 - Alle 9.435 geïmporteerde recepten tonen per recept de bron en CC BY-SA 4.0-licentie. Het is een groeiende, niet-uitputtende selectie; de inhoud is niet afkomstig van Albert Heijn of Picnic. Zie [`recipe-data/README.md`](recipe-data/README.md) voor bronvermelding, licenties, de reproduceerbare import en de vertaalmethode.
 - De 115 eigen thuisvarianten zijn geen volledige inventaris van alle gerechten uit de genoemde landen; traditionele bereidingswijzen kunnen per regio en huishouden verschillen.
 
